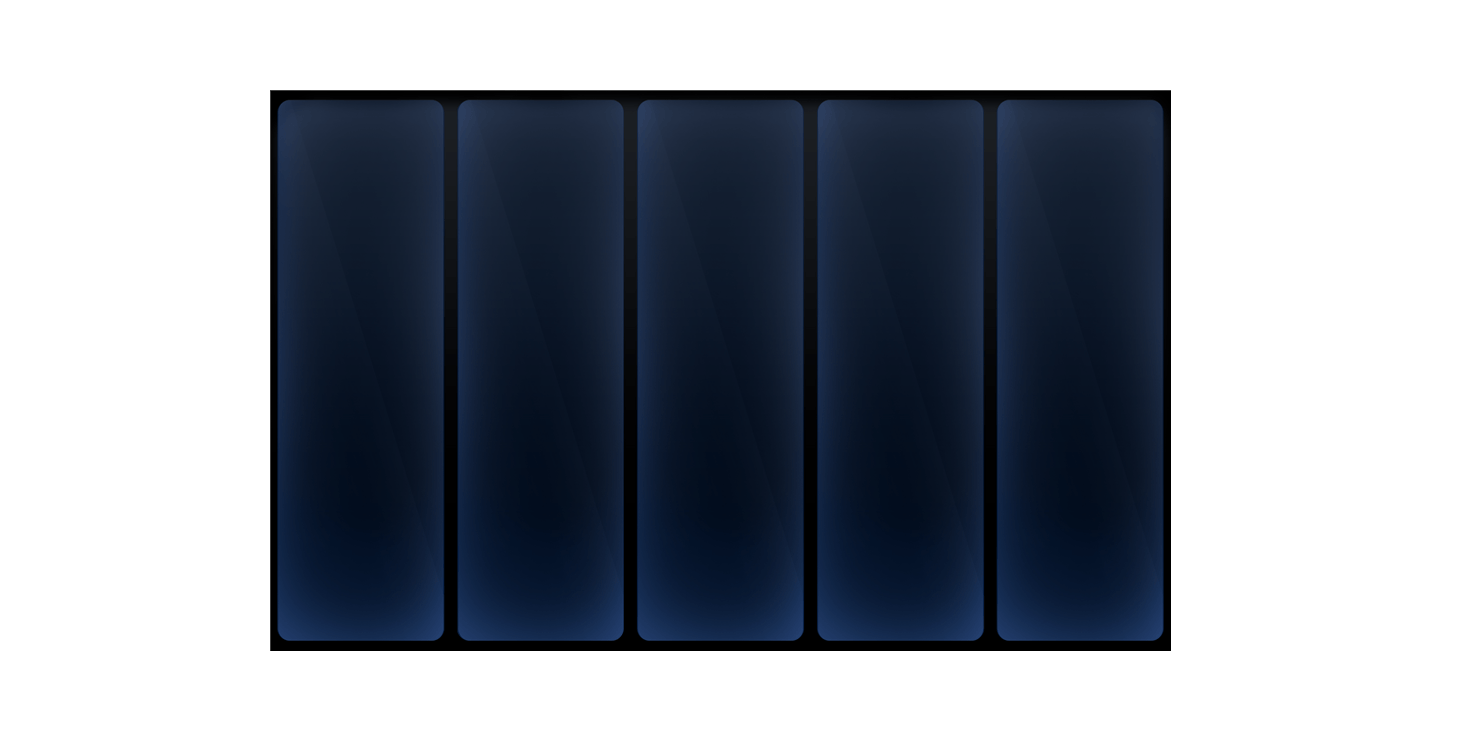
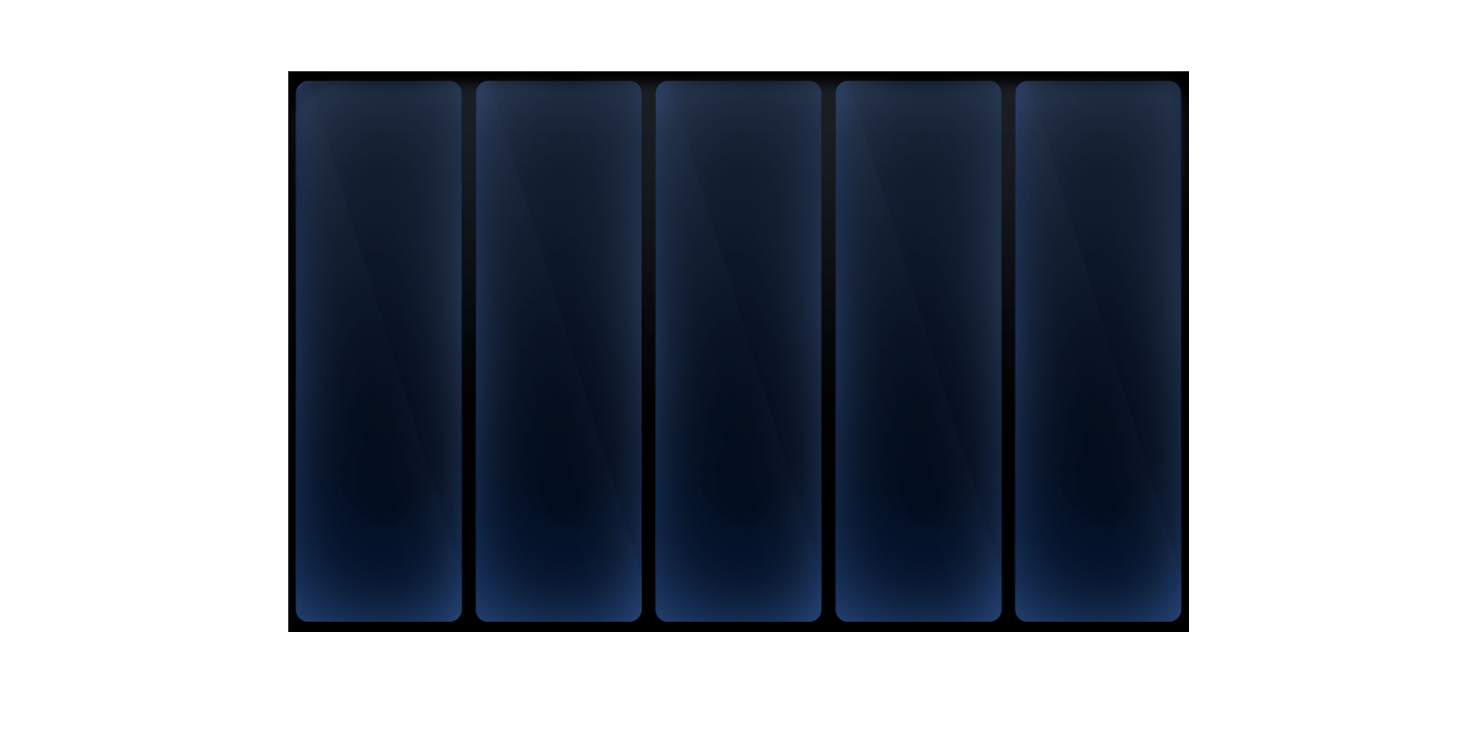
Spin started

Changed region(s): [[0.1559, 0.0922, 0.8108, 0.8917]]

diff --git a/src/spin_test/reels/Reel.ts b/src/spin_test/reels/Reel.ts
@@ -1,25 +1,45 @@
-import { Sprite } from "pixi.js";
+import { Sprite, Ticker } from "pixi.js";
+import { reelGap, symbolHeight, symbolWidth } from "../../config/Constants";
+import { SymbolName } from "../../config/Symbols";
+import { getSymbolSprite, getSymbolTexture } from "../../util/AssetFactory";
 import { GameObject } from "../../util/GameObject";
-import { reelGap, symbolWidth } from "../../config/Constants";
 
 export class Reel extends GameObject {
 
-  private symbols: string[] = ['A', 'B', 'C', 'D', 'E', 'F', 'G', 'H', 'I', 'J'];
-
-  constructor(private index:number) {
+  private index: number = 0;
+  private speed: number = 0.1;
+  constructor(private reelIndex: number, private reelStrip: SymbolName[]) {
     super();
   }
-    public init(): void {
-      this.getRoot().x = this.index * (symbolWidth + reelGap);
-      const sp = Sprite.from("character_1");
-      this.getRoot().addChild(sp);
-    }
+  public init(): void {
+    this.getRoot().x = this.reelIndex * (symbolWidth + reelGap);
 
-    public spin(): Promise<void> {
-      return new Promise((resolve) => {
-        setTimeout(() => {
-          resolve();
-        }, this.index * 1000);
-      });
+    //create a strip of 8 symbols (1 above and 3 below the visible area)
+    for (let i = 0; i < 8; i++) {
+      const symbolSprite = getSymbolSprite(this.reelStrip[i]);
+      symbolSprite.y = (i - 1) * symbolHeight;
+      this.getRoot().addChild(symbolSprite);
     }
+  }
+
+  public spin(): void {
+    this.speed = 0.1;
+    Ticker.shared.add(this.update, this);
+  }
+
+  public stop(): void {
+
+  }
+
+  private update(ticker: Ticker): void {
+    this.getRoot().children.forEach((symbolSprite) => {
+      symbolSprite.y += ticker.deltaMS * this.speed;
+      if(this.speed < 10) this.speed += 0.05;
+      if (symbolSprite.y > 7 * symbolHeight) {
+        symbolSprite.y = -symbolHeight;
+        if (--this.index < 0) this.index = this.reelStrip.length - 1;
+        (symbolSprite as Sprite).texture = getSymbolTexture(this.reelStrip[this.index], this.speed > 3);
+      }
+    });
+  }
 }

diff --git a/src/spin_test/reels/Reels.ts b/src/spin_test/reels/Reels.ts
@@ -1,5 +1,6 @@
-import { getSound } from "../../util/AssetFactory";
 import { SoundKeys } from "../../config/SoundsConfig";
+import { SymbolName, SymbolNames } from "../../config/Symbols";
+import { getSound } from "../../util/AssetFactory";
 import { GameObject } from "../../util/GameObject";
 import { Reel } from "./Reel";
 
@@ -12,26 +13,45 @@ export class Reels extends GameObject {
   }
 
   public init() {
-    for(let i = 0; i < this.reelCount; i++) {
-      const reel = new Reel(i);
-      reel.init();
+    for (let i = 0; i < this.reelCount; i++) {
+      const reel = new Reel(i, this.createReelStrip(80));
       this.reels.push(reel);
-      this.getRoot().addChild(reel.getRoot());
+      this.addChild(reel);
+      reel.init();
     }
 
-    this.getRoot().position.set(272, 97);
+    this.getRoot().position.set(288, 97);
   }
 
-    async spin() : Promise<void> {
-      if(!this.isSpinning) {
-        this.isSpinning = true;
+  public spin(): void {
+    if (!this.isSpinning) {
+      this.isSpinning = true;
+      getSound(SoundKeys.UI_SPIN_BUTTON).play();
+      this.reels.forEach(reel => reel.spin());
+    }
+  }
 
-        getSound(SoundKeys.UI_SPIN_BUTTON).play();
+  public stop(): void {
+    this.reels.forEach(reel => reel.stop());
+  }
 
-        await Promise.all(this.reels.map(reel => reel.spin()));
+  private createReelStrip(length: number): SymbolName[] {
 
-        this.isSpinning = false;
-      }
+    const reelStrip: SymbolName[] = [];
+
+    //add royals and wilds
+    for (let i = 0; i < length; i++) {
+      reelStrip.push(SymbolNames[Math.floor(Math.random() * 6)]);
     }
 
+    //add specials
+    for (let i = 2; i < length; i+=3) {
+      if(Math.random() < 0.1) {
+        reelStrip[i] = SymbolNames[6 + Math.floor(Math.random() * 5)];
+        reelStrip[i - 1] = SymbolName.SYMBOL_EMPTY;
+        reelStrip[i - 2] = SymbolName.SYMBOL_EMPTY;
+      }
+    }
+    return reelStrip;
+  }
 }

diff --git a/src/config/SoundsConfig.ts b/src/config/SoundsConfig.ts
@@ -1,11 +1,11 @@
 export enum SoundKeys {
-    MAIN_GAME_BACKGROUND = "MAIN_GAME_BACKGROUND",
-    REELS_STOP_1 = "REELS_STOP_1",
-    REELS_STOP_2 = "REELS_STOP_2",
-    REELS_STOP_3 = "REELS_STOP_3",
-    REELS_STOP_4 = "REELS_STOP_4",
-    REELS_STOP_5 = "REELS_STOP_5",
-    UI_SPIN_BUTTON = "UI_SPIN_BUTTON"
+  MAIN_GAME_BACKGROUND = "MAIN_GAME_BACKGROUND",
+  REELS_STOP_1 = "REELS_STOP_1",
+  REELS_STOP_2 = "REELS_STOP_2",
+  REELS_STOP_3 = "REELS_STOP_3",
+  REELS_STOP_4 = "REELS_STOP_4",
+  REELS_STOP_5 = "REELS_STOP_5",
+  UI_SPIN_BUTTON = "UI_SPIN_BUTTON"
 }
 
 export function getSoundFilename(name: SoundKeys): string {
@@ -17,11 +17,11 @@ export function getAllSoundFilenames(): string[] {
 }
 
 const sounds: Record<SoundKeys, string> = {
-    [SoundKeys.MAIN_GAME_BACKGROUND]: "../assets/sounds/maingame_backgroundmusic.ogg",
-    [SoundKeys.REELS_STOP_1]: "../assets/sounds/reels_stop_1.ogg",
-    [SoundKeys.REELS_STOP_2]: "../assets/sounds/reels_stop_2.ogg",
-    [SoundKeys.REELS_STOP_3]: "../assets/sounds/reels_stop_3.ogg",
-    [SoundKeys.REELS_STOP_4]: "../assets/sounds/reels_stop_4.ogg",
-    [SoundKeys.REELS_STOP_5]: "../assets/sounds/reels_stop_5.ogg",
-    [SoundKeys.UI_SPIN_BUTTON]: "../assets/sounds/ui_spinbutton.ogg"
+  [SoundKeys.MAIN_GAME_BACKGROUND]: "../assets/sounds/maingame_backgroundmusic.ogg",
+  [SoundKeys.REELS_STOP_1]: "../assets/sounds/reels_stop_1.ogg",
+  [SoundKeys.REELS_STOP_2]: "../assets/sounds/reels_stop_2.ogg",
+  [SoundKeys.REELS_STOP_3]: "../assets/sounds/reels_stop_3.ogg",
+  [SoundKeys.REELS_STOP_4]: "../assets/sounds/reels_stop_4.ogg",
+  [SoundKeys.REELS_STOP_5]: "../assets/sounds/reels_stop_5.ogg",
+  [SoundKeys.UI_SPIN_BUTTON]: "../assets/sounds/ui_spinbutton.ogg"
 };

diff --git a/src/util/AssetFactory.ts b/src/util/AssetFactory.ts
@@ -1,19 +1,34 @@
 
-import { Sprite } from "pixi.js";
+import { Sprite, Texture } from "pixi.js";
 import { Sound } from "@pixi/sound";
 import { ImageKeys, getImageFilename } from "../config/ImagesConfig";
 import { SoundKeys, getSoundFilename } from "../config/SoundsConfig";
+import { SymbolNames, SymbolName } from "../config/Symbols";
 
 export function getSprite(name: ImageKeys): Sprite {
-    return Sprite.from(getImageFilename(name));
+  return Sprite.from(getImageFilename(name));
 }
 
 export function getButton(name: ImageKeys): Sprite {
-  const button = Sprite.from(getImageFilename(name));
+  const button = getSprite(name);
   button.interactive = true;
   return button;
 }
 
 export function getSound(name: SoundKeys): Sound {
   return Sound.from(getSoundFilename(name));
+}
+
+export function getSymbolSprite(name: SymbolName): Sprite {
+  const symbolSprite = Sprite.from(name);
+  symbolSprite.anchor.set(0, 1);
+  return symbolSprite;
+}
+
+export function getSymbolTexture(name: SymbolName, blur: boolean = false): Texture {
+  return Texture.from(blur ? name + "_blurred" : name);
+}
+
+export function getSymbolSpriteByIndex(index: number): Sprite {
+  return getSymbolSprite(SymbolNames[index]);
 }

diff --git a/src/spin_test/SpinTest.ts b/src/spin_test/SpinTest.ts
@@ -1,11 +1,10 @@
-import { getSprite, getButton } from "../util/AssetFactory";
 import { ImageKeys } from "../config/ImagesConfig";
+import { getButton, getSprite } from "../util/AssetFactory";
 import { GameObject } from "../util/GameObject";
 import { Reels } from "./reels/Reels";
 
-export class SpinTest extends GameObject
-{
-  public init() :void {
+export class SpinTest extends GameObject {
+  public init(): void {
 
     //make some reels
     const reels = new Reels(5);
@@ -13,14 +12,14 @@ export class SpinTest extends GameObject
 
     //and a spin button
     const spinButton = getButton(ImageKeys.SPIN_BUTTON);
-    spinButton.on('pointerdown', ()=> reels.spin());
+    spinButton.on('pointerdown', () => reels.spin());
 
     //add them to the display list
-    this.root.addChild(getSprite(ImageKeys.BACKGROUND),
-                       getSprite(ImageKeys.REELS_BACKGROUND),
-                       reels.getRoot(),
-                       getSprite(ImageKeys.FRAME),
-                       spinButton
-                    );
+    this.root.addChild(
+      getSprite(ImageKeys.REELS_BACKGROUND),
+      reels.getRoot(),
+      getSprite(ImageKeys.OVERLAY),
+      spinButton
+    );
   }
 }

diff --git a/src/index.ts b/src/index.ts
@@ -3,20 +3,19 @@ import { getAllImageFilenames } from './config/ImagesConfig';
 import { getAllSoundFilenames } from './config/SoundsConfig';
 import { SpinTest } from './spin_test/SpinTest';
 
-(async () =>
-{
-    //init pixi
-    const app = new Application();
-    await app.init({ background: '#1099bb', resizeTo: window });
-    
-    document.body.appendChild(app.canvas);
+(async () => {
+  //init pixi
+  const app = new Application();
+  await app.init({ background: '#1099bb', resizeTo: window });
 
-    //load assets
-    await Assets.load([...getAllImageFilenames(), ...getAllSoundFilenames()]);
+  document.body.appendChild(app.canvas);
 
-    //start the game
-    const spinTest = new SpinTest();
-    app.stage.addChild(spinTest.getRoot());
-    spinTest.init();
+  //load assets
+  await Assets.load([...getAllImageFilenames(), ...getAllSoundFilenames()]);
+
+  //start the game
+  const spinTest = new SpinTest();
+  app.stage.addChild(spinTest.getRoot());
+  spinTest.init();
 }
 )();

diff --git a/src/config/ImagesConfig.ts b/src/config/ImagesConfig.ts
@@ -1,23 +1,21 @@
 export enum ImageKeys {
-    BACKGROUND = "BACKGROUND",
-    REELS_BACKGROUND = "REELS_BACKGROUND",
-    FRAME = "FRAME",
-    SPIN_BUTTON = "SPIN_BUTTON",
-    SYMBOLS = "SYMBOLS",
+  OVERLAY = "OVERLAY",
+  REELS_BACKGROUND = "REELS_BACKGROUND",
+  SPIN_BUTTON = "SPIN_BUTTON",
+  SYMBOLS = "SYMBOLS",
 }
 
 export function getImageFilename(name: ImageKeys): string {
-    return images[name];
+  return images[name];
 }
 
 export function getAllImageFilenames(): string[] {
-    return Object.values(images);
+  return Object.values(images);
 }
 
 const images: Record<ImageKeys, string> = {
-  [ImageKeys.BACKGROUND]: "../assets/images/bg.jpg",
+  [ImageKeys.OVERLAY]: "../assets/images/overlay.png",
   [ImageKeys.REELS_BACKGROUND]: "../assets/images/reels_back.png",
-  [ImageKeys.FRAME]: "../assets/images/frame.png",
   [ImageKeys.SPIN_BUTTON]: "../assets/images/spin.png",
   [ImageKeys.SYMBOLS]: "../assets/images/symbols_definition.json"
 };

diff --git a/src/config/Symbols.ts b/src/config/Symbols.ts
@@ -1,0 +1,16 @@
+export enum SymbolName {
+  SYMBOL_10 = "symbol_10",
+  SYMBOL_J = "symbol_J",
+  SYMBOL_Q = "symbol_Q",
+  SYMBOL_K = "symbol_K",
+  SYMBOL_A = "symbol_A",
+  SYMBOL_WILD = "symbol_wild",
+  SYMBOL_ANUBIS = "symbol_anubis",
+  SYMBOL_BASTET = "symbol_bastet",
+  SYMBOL_HORUS = "symbol_horus",
+  SYMBOL_CLEO = "symbol_cleo",
+  SYMBOL_OSIRIS = "symbol_osiris",
+  SYMBOL_EMPTY = "symbol_empty",
+}
+
+export const SymbolNames = Object.values(SymbolName);

diff --git a/webpack.config.ts b/webpack.config.ts
@@ -22,11 +22,6 @@ module.exports = (env: { mode: "development" | "production" }) => {
                 },
             ],
         },
-        optimization: {
-            splitChunks: {
-                chunks: "all",
-            },
-        },
 
         plugins: [
           new HtmlWebpackPlugin(),

diff --git a/src/util/GameObject.ts b/src/util/GameObject.ts
@@ -7,5 +7,8 @@ export abstract class GameObject {
     return this.root as Container;
   }
 
+  public addChild(child: GameObject): void {
+    this.root.addChild(child.getRoot());
+  }
   public abstract init(): void;
 }

diff --git a/src/config/Constants.ts b/src/config/Constants.ts
@@ -1,3 +1,3 @@
 export const symbolWidth = 174;
-export const symbolHeight = 547;
+export const symbolHeight = 174;
 export const reelGap = 6;
